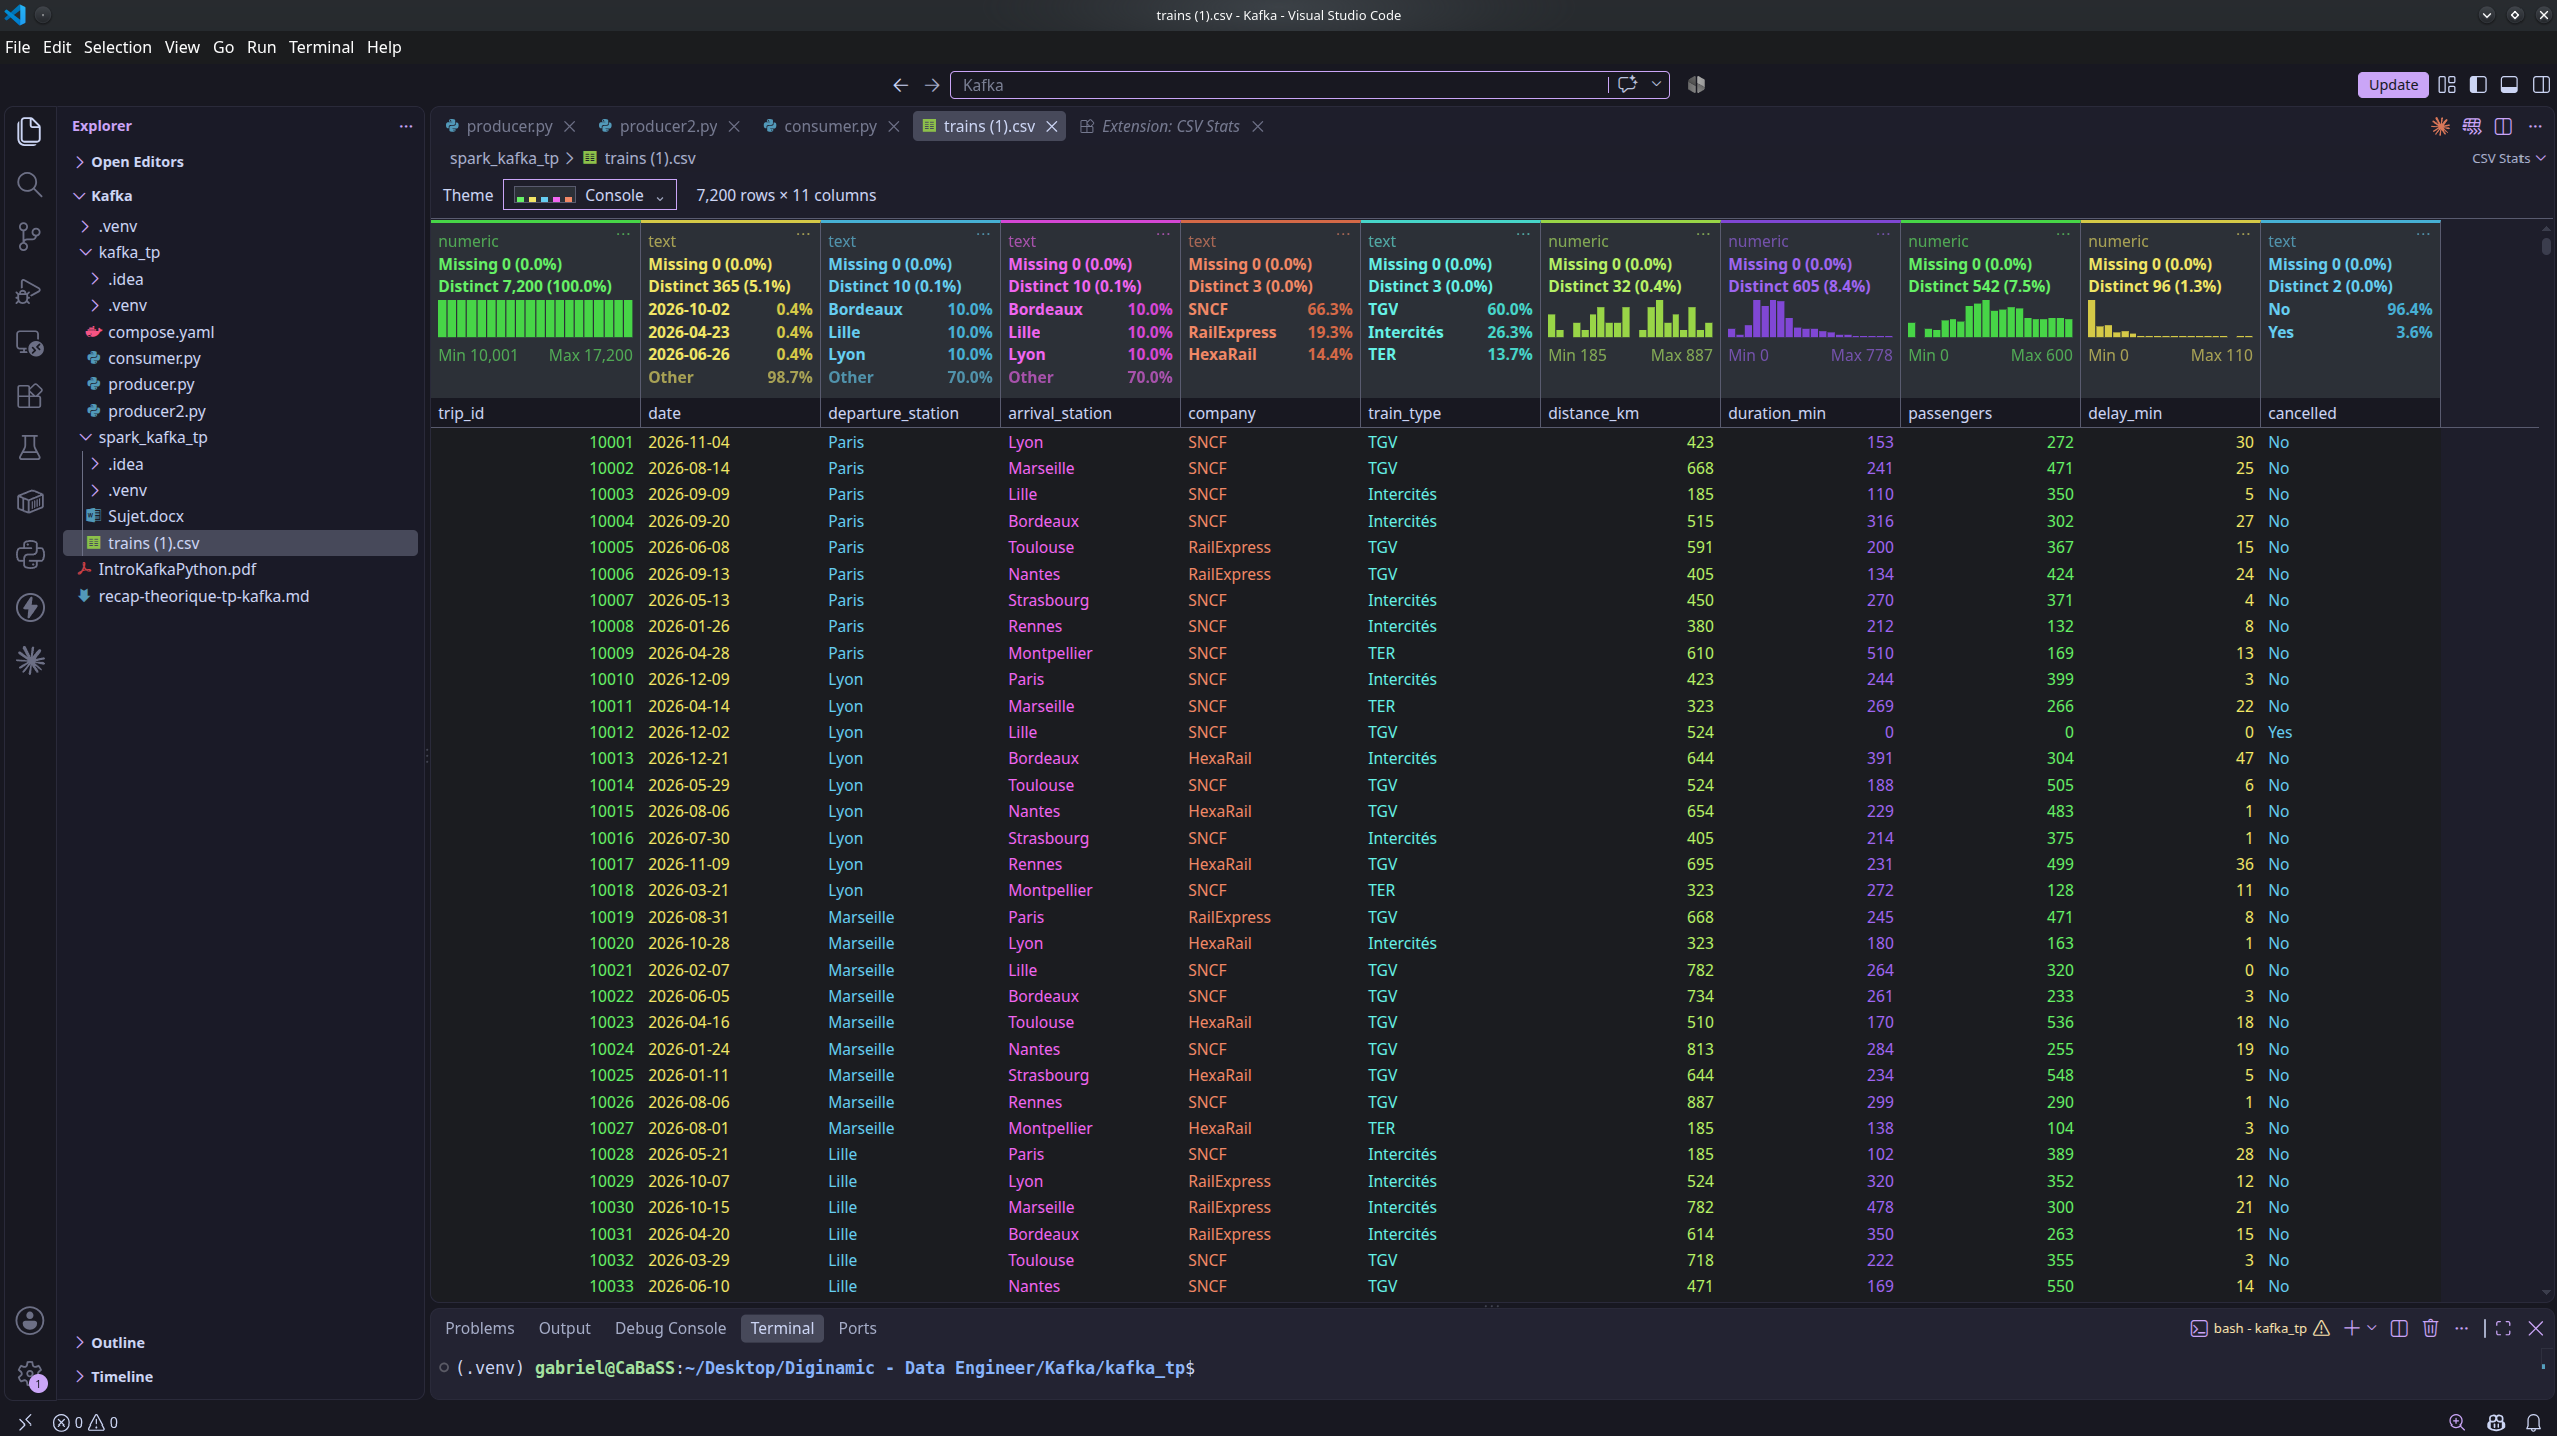
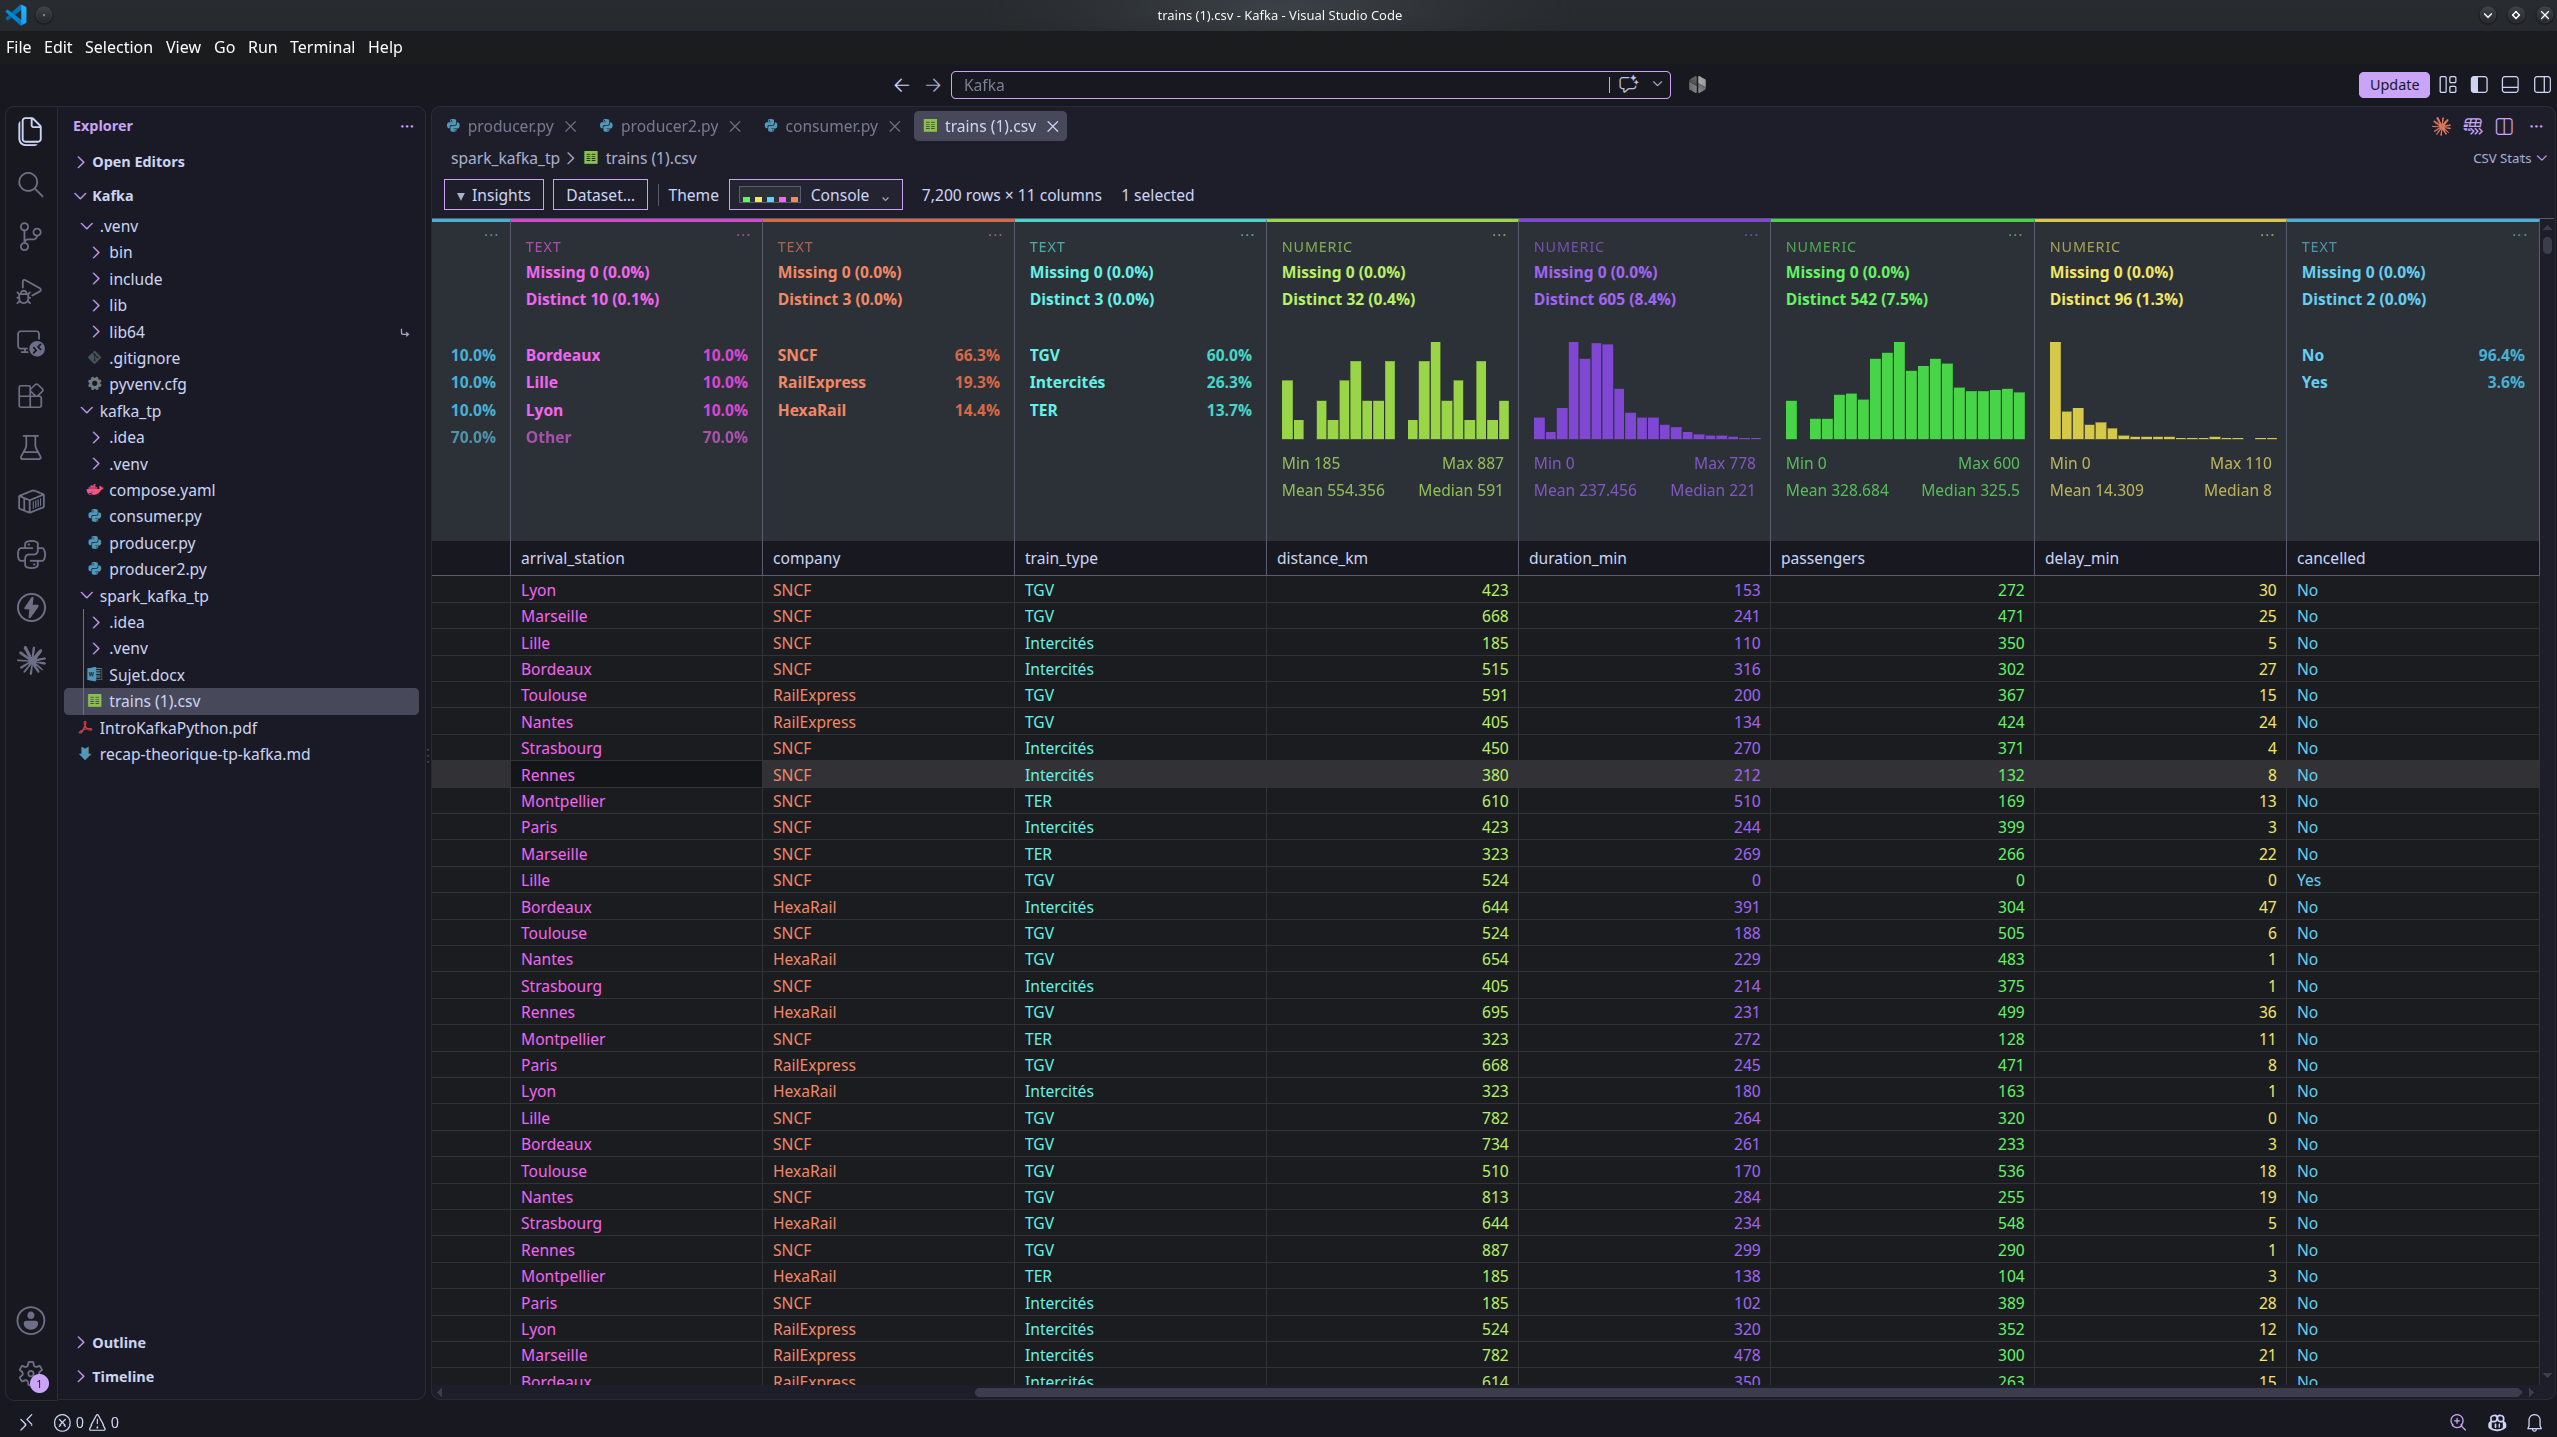
docs: captures d'ecran mises a jour, deux nouvelles
Les trois captures dataient d'avant la selection de ligne, le selecteur de
palette dessine et le panneau Column details : remplacees par des captures
reelles de VS Code montrant l'etat actuel.

Deux ajouts : le panneau Column details (histogramme avec Q1/mediane/Q3
marques, completude, statistiques) et la palette Prism duo, pour montrer les
trois familles de palettes cote a cote dans le README.

diff --git a/README.md b/README.md
@@ -11,17 +11,25 @@ The interface is **in English**, numbers included: comma thousands separator and
 decimal point. The table itself shows the cells exactly as they are written in
 the file.
 
-![The stats band over a 7,200-row file, Rainbow palette, with a histogram tooltip](https://raw.githubusercontent.com/gcapellib/vscode-csv-stats/main/media/screenshot-rainbow.png)
+![The stats band over a 7,200-row file, Rainbow palette, with a row selected](https://raw.githubusercontent.com/gcapellib/vscode-csv-stats/main/media/screenshot-rainbow.png)
 
-*Hovering a histogram bar gives that bin's range and count.*
+*Per-column stats, a rainbow palette, and a row marked in the table below.*
 
-![The same file with the Console palette, where each column carries its own ink colour](https://raw.githubusercontent.com/gcapellib/vscode-csv-stats/main/media/screenshot-console.png)
+![The Column details panel: completeness, a histogram with median and quartiles marked, and full statistics](https://raw.githubusercontent.com/gcapellib/vscode-csv-stats/main/media/screenshot-column-details.png)
 
-*The Console palette leaves the background alone and colours the text instead.*
+*`⋯` → Column details: what pandas would make of the column, and the chart that fits it — here a histogram with Q1, median and Q3 marked on it.*
 
 ![The palette picker, with a preview of each palette](https://raw.githubusercontent.com/gcapellib/vscode-csv-stats/main/media/screenshot-themes.png)
 
 *Forty palettes, each previewed by five chips showing background and ink.*
+
+![The same file with the Console palette, where each column carries its own ink colour on a plain background](https://raw.githubusercontent.com/gcapellib/vscode-csv-stats/main/media/screenshot-console.png)
+
+*Console: a plain background, each column keeping its own ink colour — the way syntax highlighting does.*
+
+![The same file with the Prism duo palette, where both the background and the text are coloured per column](https://raw.githubusercontent.com/gcapellib/vscode-csv-stats/main/media/screenshot-prismduo.png)
+
+*Prism duo: background and text both coloured, the text much denser than its background.*
 
 ## What the tab shows
 
@@ -173,7 +181,7 @@ npm run package  # produces csv-stats-<version>.vsix
 ## Install
 
 ```bash
-code --install-extension csv-stats-0.10.1.vsix
+code --install-extension csv-stats-0.10.2.vsix
 ```
 
 Or, in VS Code: **Extensions** view → `…` → **Install from VSIX…**
